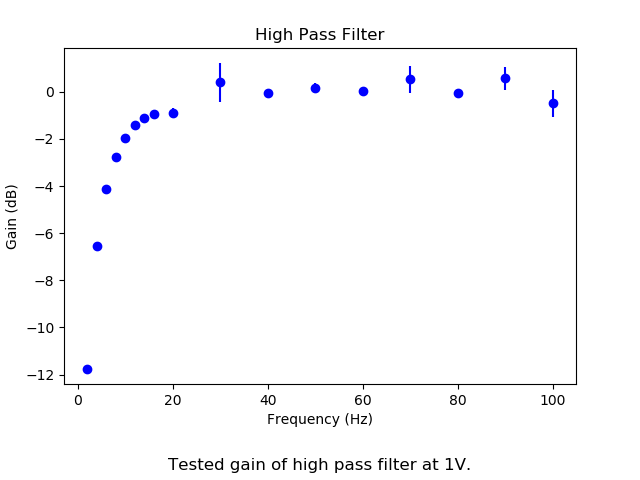
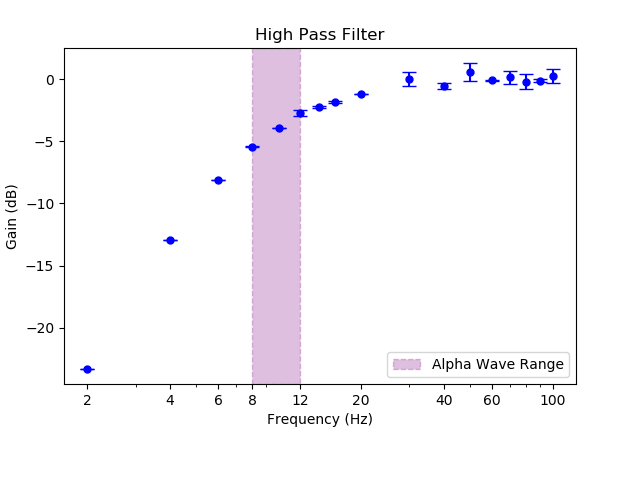
Improved and updated plots of filter gains

diff --git a/testing_circuit/plot_filter_data.py b/testing_circuit/plot_filter_data.py
@@ -3,13 +3,15 @@ PROGRAM DESCRIPTION:
 
 We use this program to graph pickled filter gain data in voltage gain and decibel units.
 """
-
+import os
 import pickle
 import numpy as np
 import collections
+import matplotlib
 import matplotlib.pyplot as plt
 
 filename = input('Please enter filename path to read: ')
+filename = os.path.join('pickle_data', filename)+'.pickle'
 file = open(filename, 'rb')
 data = pickle.load(file)
 file.close()
@@ -40,13 +42,24 @@ else:
     ax2 = fig2.add_axes((0.1,0.2,0.8,0.7))
     fig2.text(.5, 0.02, caption, ha='center', fontsize=12, wrap=True)
     
-ax1.errorbar(frequencies, gains, yerr = stderrs, fmt='bo')
-ax1.set(xlabel='Frequency (Hz)', ylabel='Voltage Gain', title=title)    
+ax1.errorbar(frequencies, gains, yerr = stderrs, fmt='bo', capsize=5, ms=5)
+ax1.axvspan(8, 12, alpha=0.25, label='Alpha Wave Range', linestyle='--', color='purple')
+ax1.set(xlabel='Frequency (Hz)', ylabel='Voltage Gain', title=title)
+ax1.set_xscale('log')
+ax1.set_xticks([2,4,6,8,12,20,40,60,100])
+ax1.get_xaxis().set_major_formatter(matplotlib.ticker.ScalarFormatter())
+ax1.legend()
 
 gains_db = 20*np.log10(gains) #gains in decibel units
 stderrs_db = (20/np.log(10)) * np.divide(stderrs, gains) #get differential error
-ax2.errorbar(frequencies, gains_db, yerr = stderrs_db, fmt='bo')
-ax2.set(xlabel='Frequency (Hz)', ylabel='Gain (dB)', title=title)    
+ax2.errorbar(frequencies, gains_db, yerr = stderrs_db, fmt='bo', capsize=5, ms=5)
+ax2.axvspan(8, 12, alpha=0.25, label='Alpha Wave Range', linestyle='--', color='purple')
+ax2.set(xlabel='Frequency (Hz)', ylabel='Gain (dB)', title=title)
+ax2.set_xscale('log')
+ax2.set_xticks([2,4,6,8,12,20,40,60,100])
+ax2.get_xaxis().set_major_formatter(matplotlib.ticker.ScalarFormatter())
+ax2.legend()
+
 plt.show()
 
 input('Press <Enter> to end')
